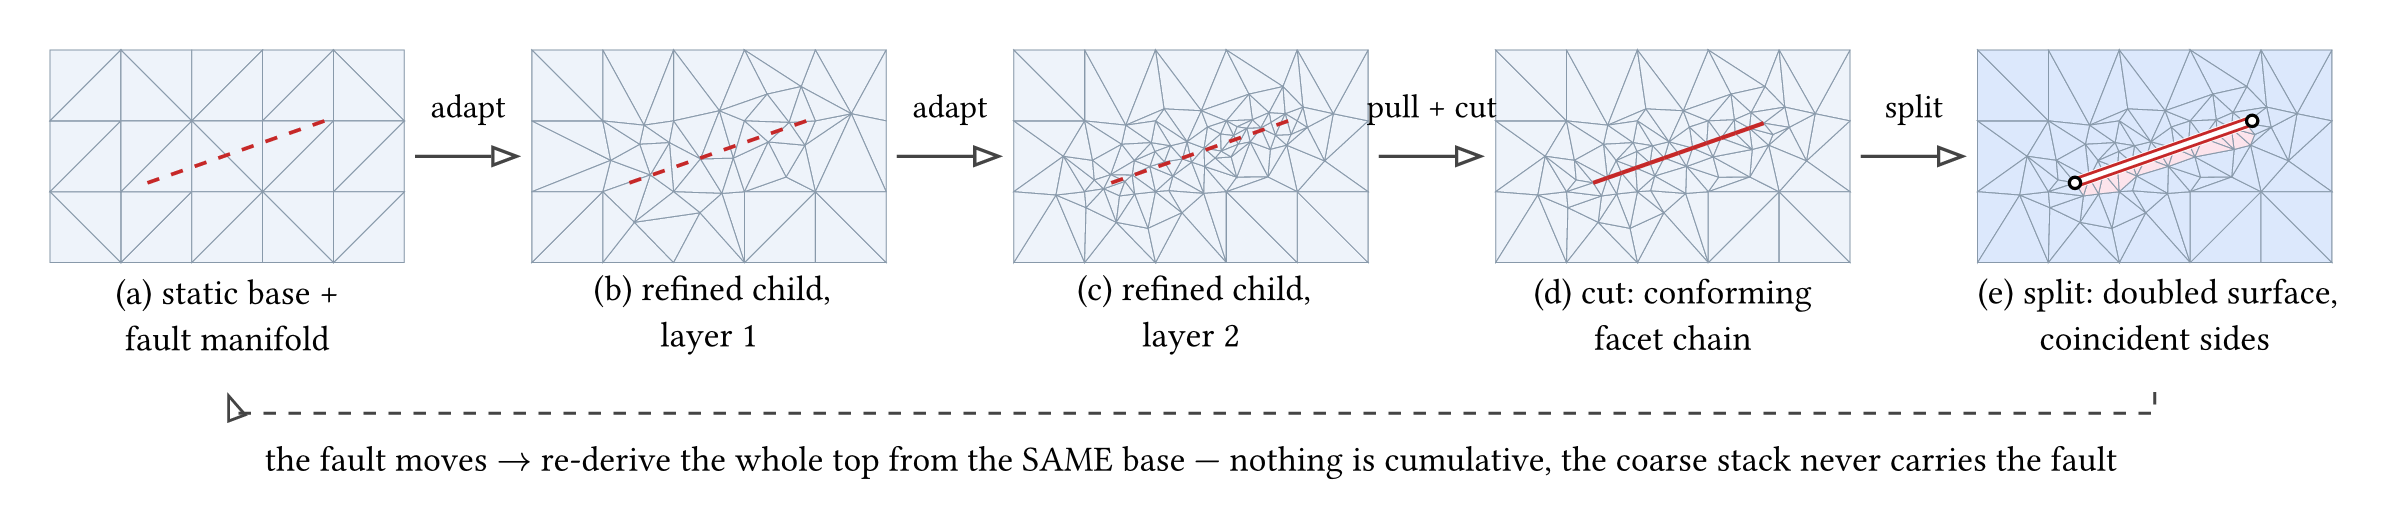
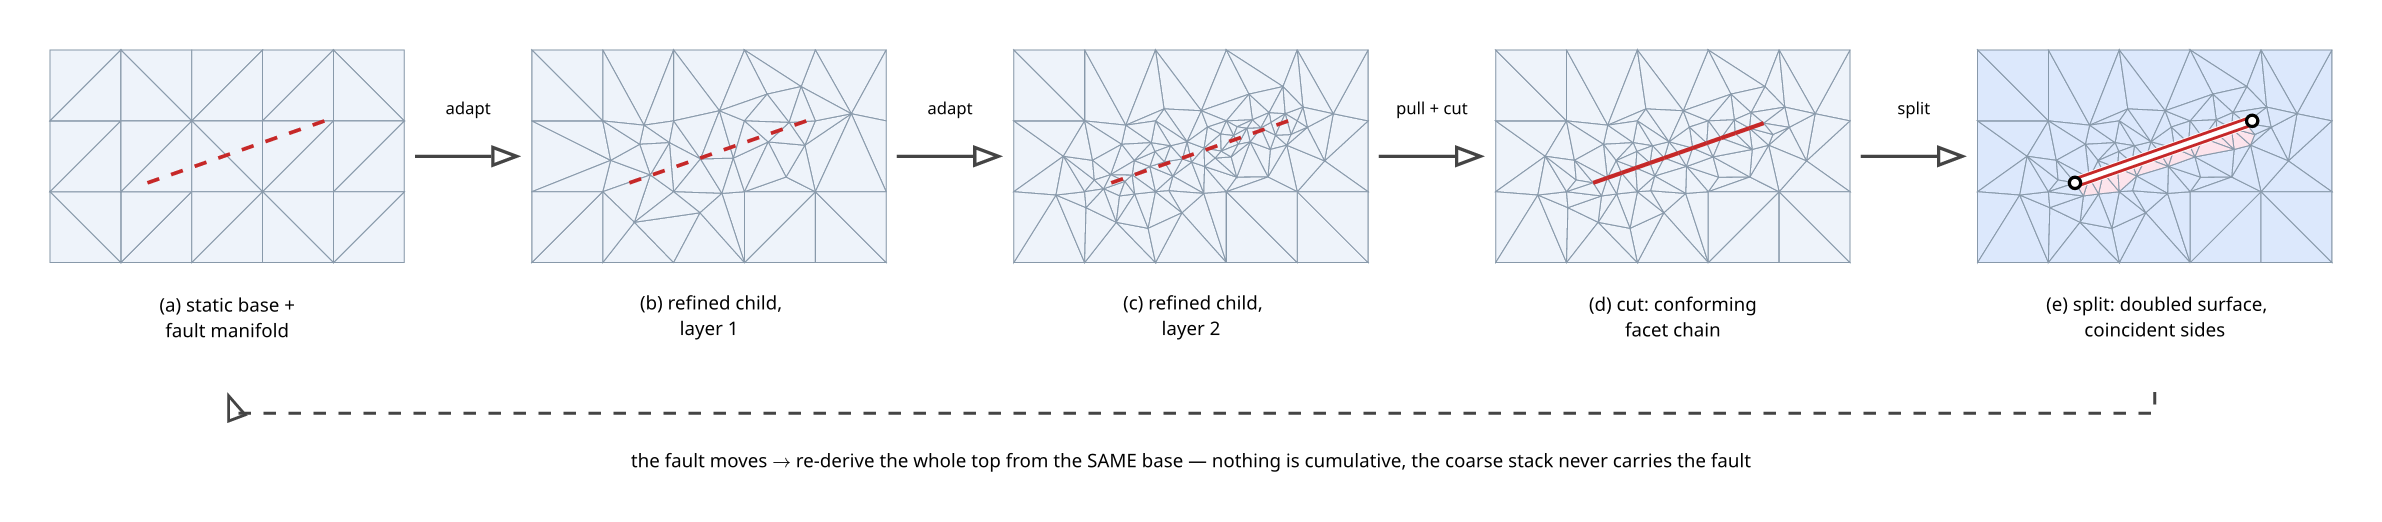
Grid-hierarchy figure; sans-serif labels at half size on all figures
The vertical companion to the stack progression: the static base is
the finest level of a geometric (FMG) hierarchy — two coarser levels
drawn below it — and the adapted children extend that hierarchy
upward, one level per doubling of resolution. The cut + split working
mesh sits on top of the stack but outside the hierarchy, separated by
the dashed rule "a cut is not a multigrid level".

Typography across the whole set: labels move to a sans stack
(Noto Sans, Helvetica, Arial — the first available wins) at half the
previous size; math stays in the math font.

Underworld development team with AI support from Claude Code

diff --git a/docs/developer/design/figures/split-node-faults/generate-grid-hierarchy-data.py b/docs/developer/design/figures/split-node-faults/generate-grid-hierarchy-data.py
@@ -1,0 +1,26 @@
+"""Coarse FMG levels for the grid-hierarchy figure.
+
+The base mesh of the stack-progression figure is itself the finest level
+of a geometric (FMG) hierarchy; this generator adds the two coarser
+levels below it (~2x spacing per level, endpoints exact). The refined
+children and the cut come from stack-progression-data.json.
+"""
+import json
+import os
+
+import numpy as np
+from scipy.spatial import Delaunay
+
+
+def level(nx, ny):
+    pts = np.array([[x, y] for x in np.linspace(0.0, 2.0, nx)
+                    for y in np.linspace(0.0, 1.2, ny)])
+    return dict(coords=pts.tolist(), tris=Delaunay(pts).simplices.tolist())
+
+
+out = dict(coarse2=level(3, 2), coarse1=level(4, 3))
+here = os.path.dirname(os.path.abspath(__file__))
+with open(os.path.join(here, "grid-hierarchy-data.json"), "w") as f:
+    json.dump(out, f)
+for name, p in out.items():
+    print(f"{name}: {len(p['coords'])} pts, {len(p['tris'])} tris")

diff --git a/docs/developer/design/SPLIT_NODE_FAULT_METHOD_2026-08.md b/docs/developer/design/SPLIT_NODE_FAULT_METHOD_2026-08.md
@@ -143,6 +143,15 @@ cut so the fault becomes a conforming facet chain, and only then split.
 When the fault moves, the whole top of the stack is re-derived from the
 same base — the operation is non-cumulative by construction.*
 
+![The grid hierarchy](figures/split-node-faults/grid-hierarchy.png)
+
+*Fig. 5 — the same stack seen as a solver hierarchy. The static base is
+itself the finest level of a geometric (FMG) hierarchy, and the adapted
+children extend that hierarchy upward — one level per doubling of
+resolution. The cut + split working mesh sits on top of the stack but
+OUTSIDE the hierarchy: a cut is not a multigrid level, and the coarse
+levels never carry the fault.*
+
 ### 3.1 Input contract and provenance
 
 Input: a *conforming labelled facet set* — the fault's name labels
